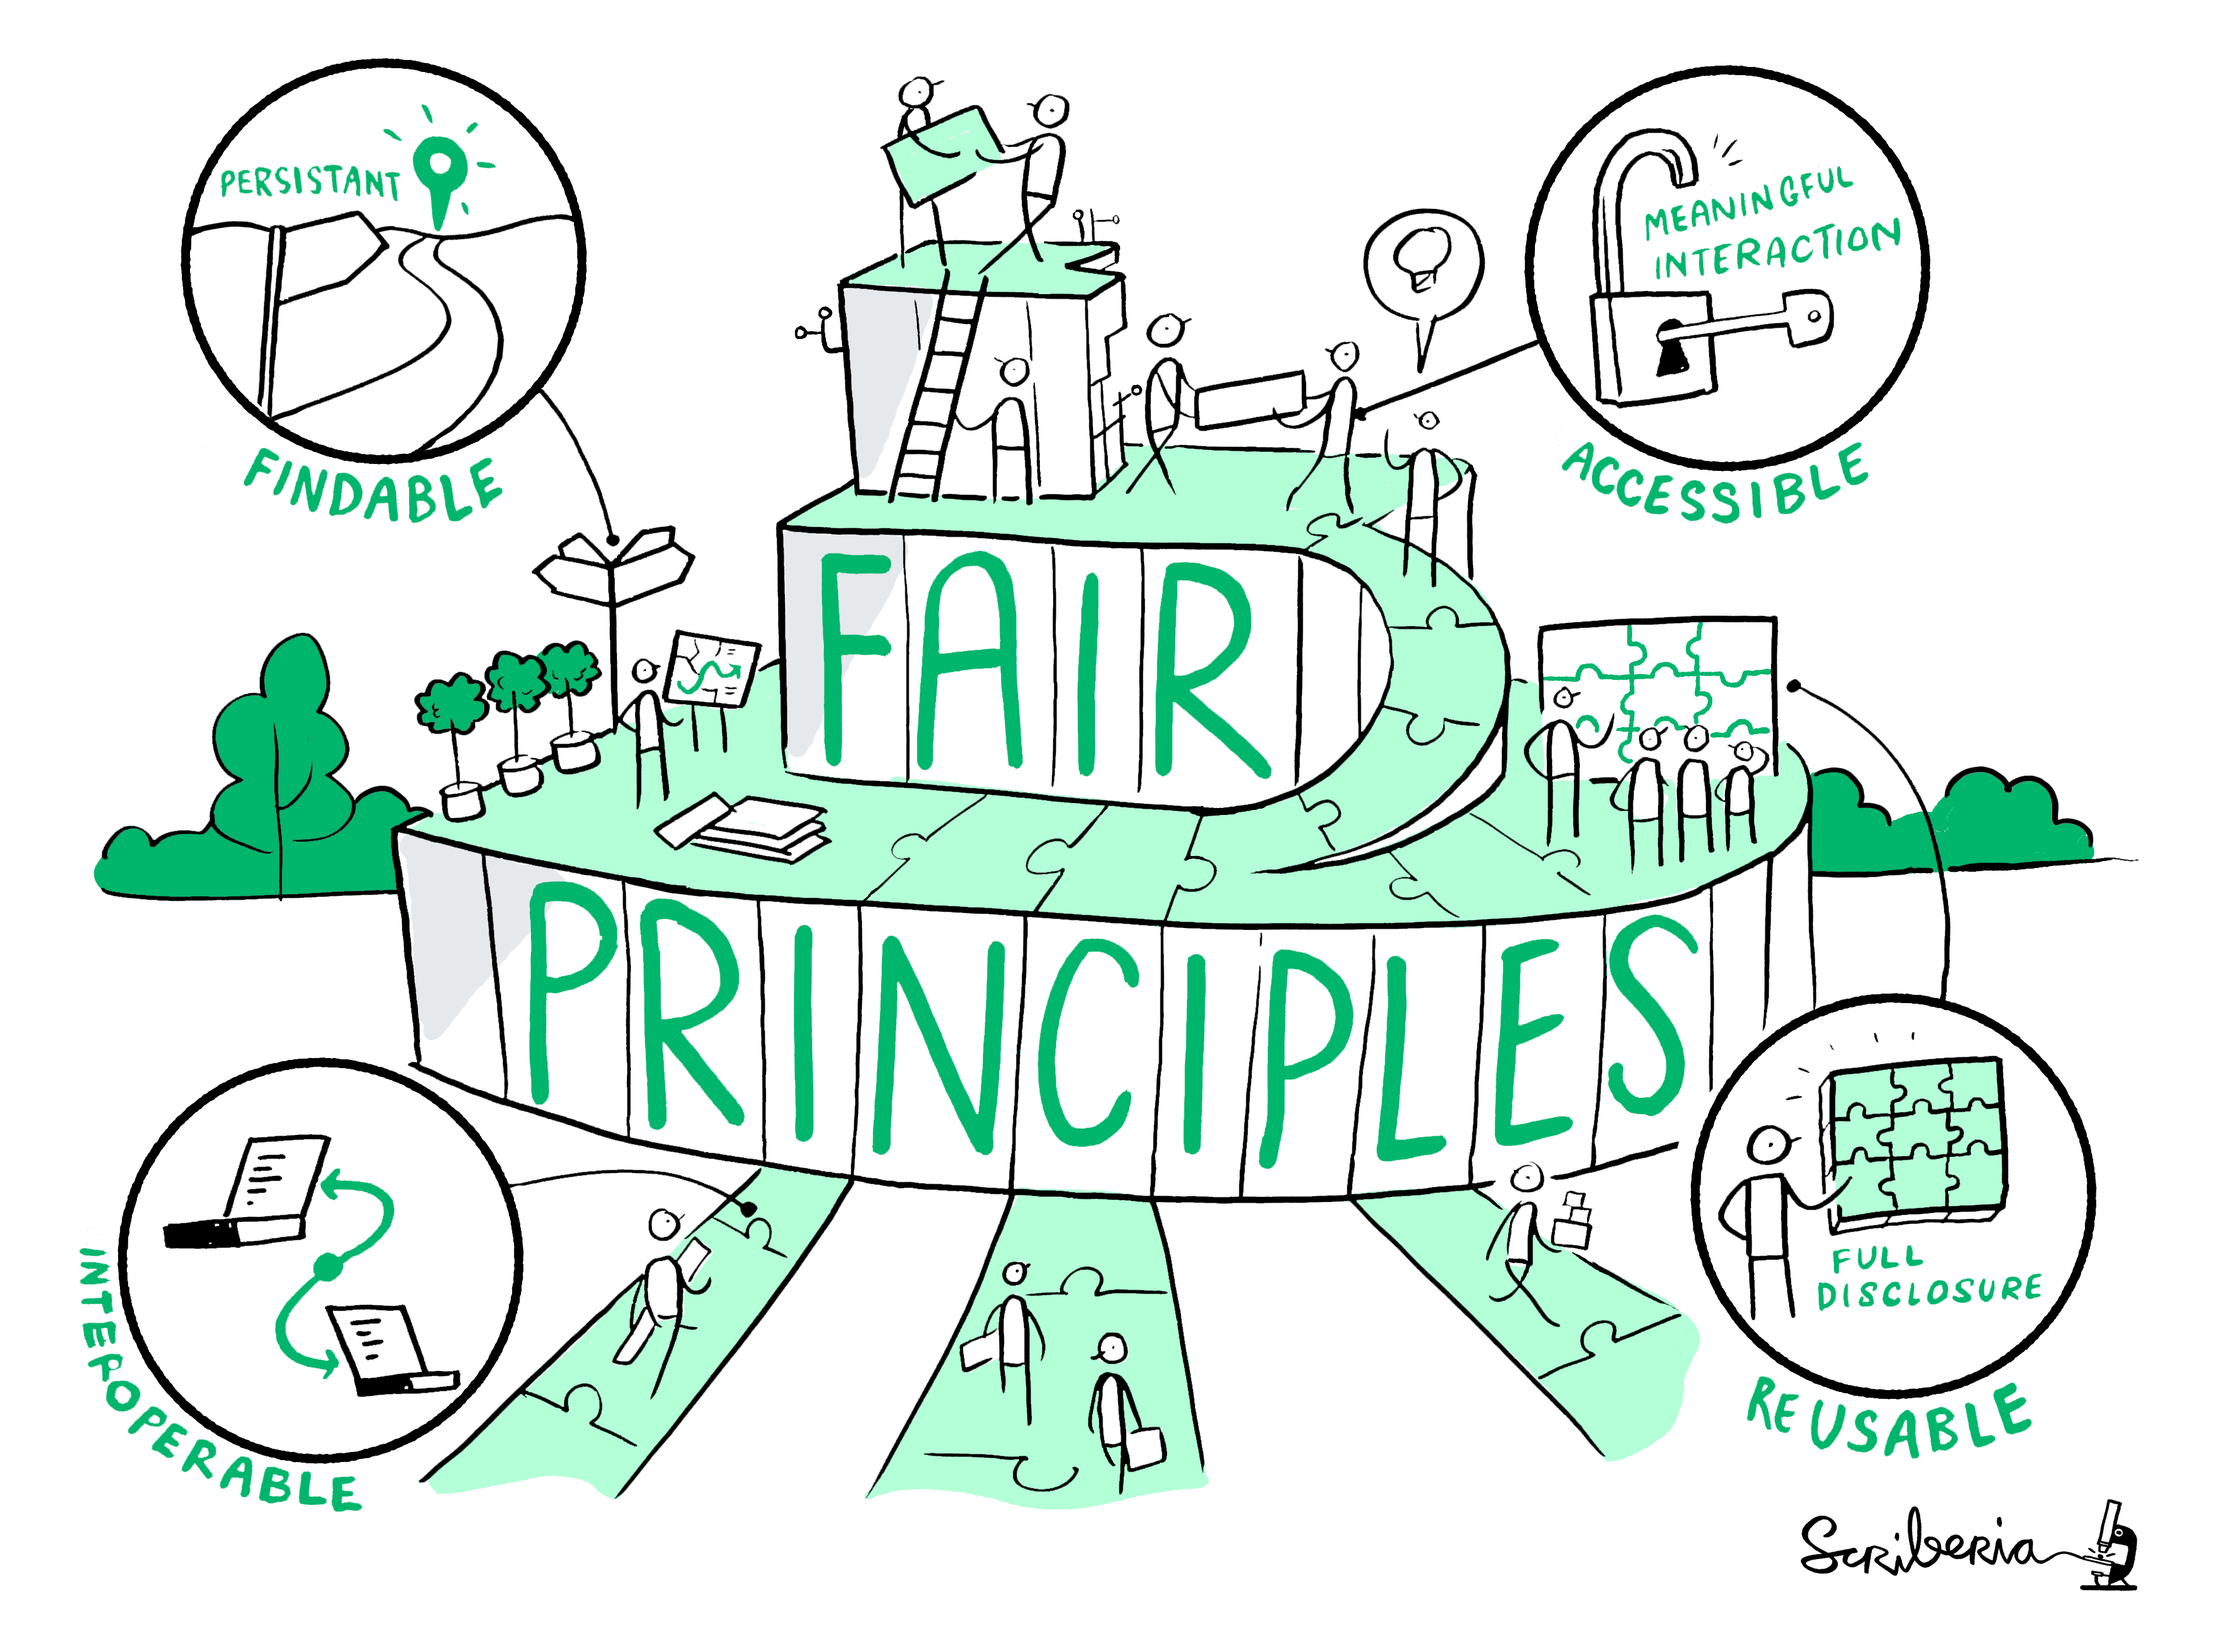
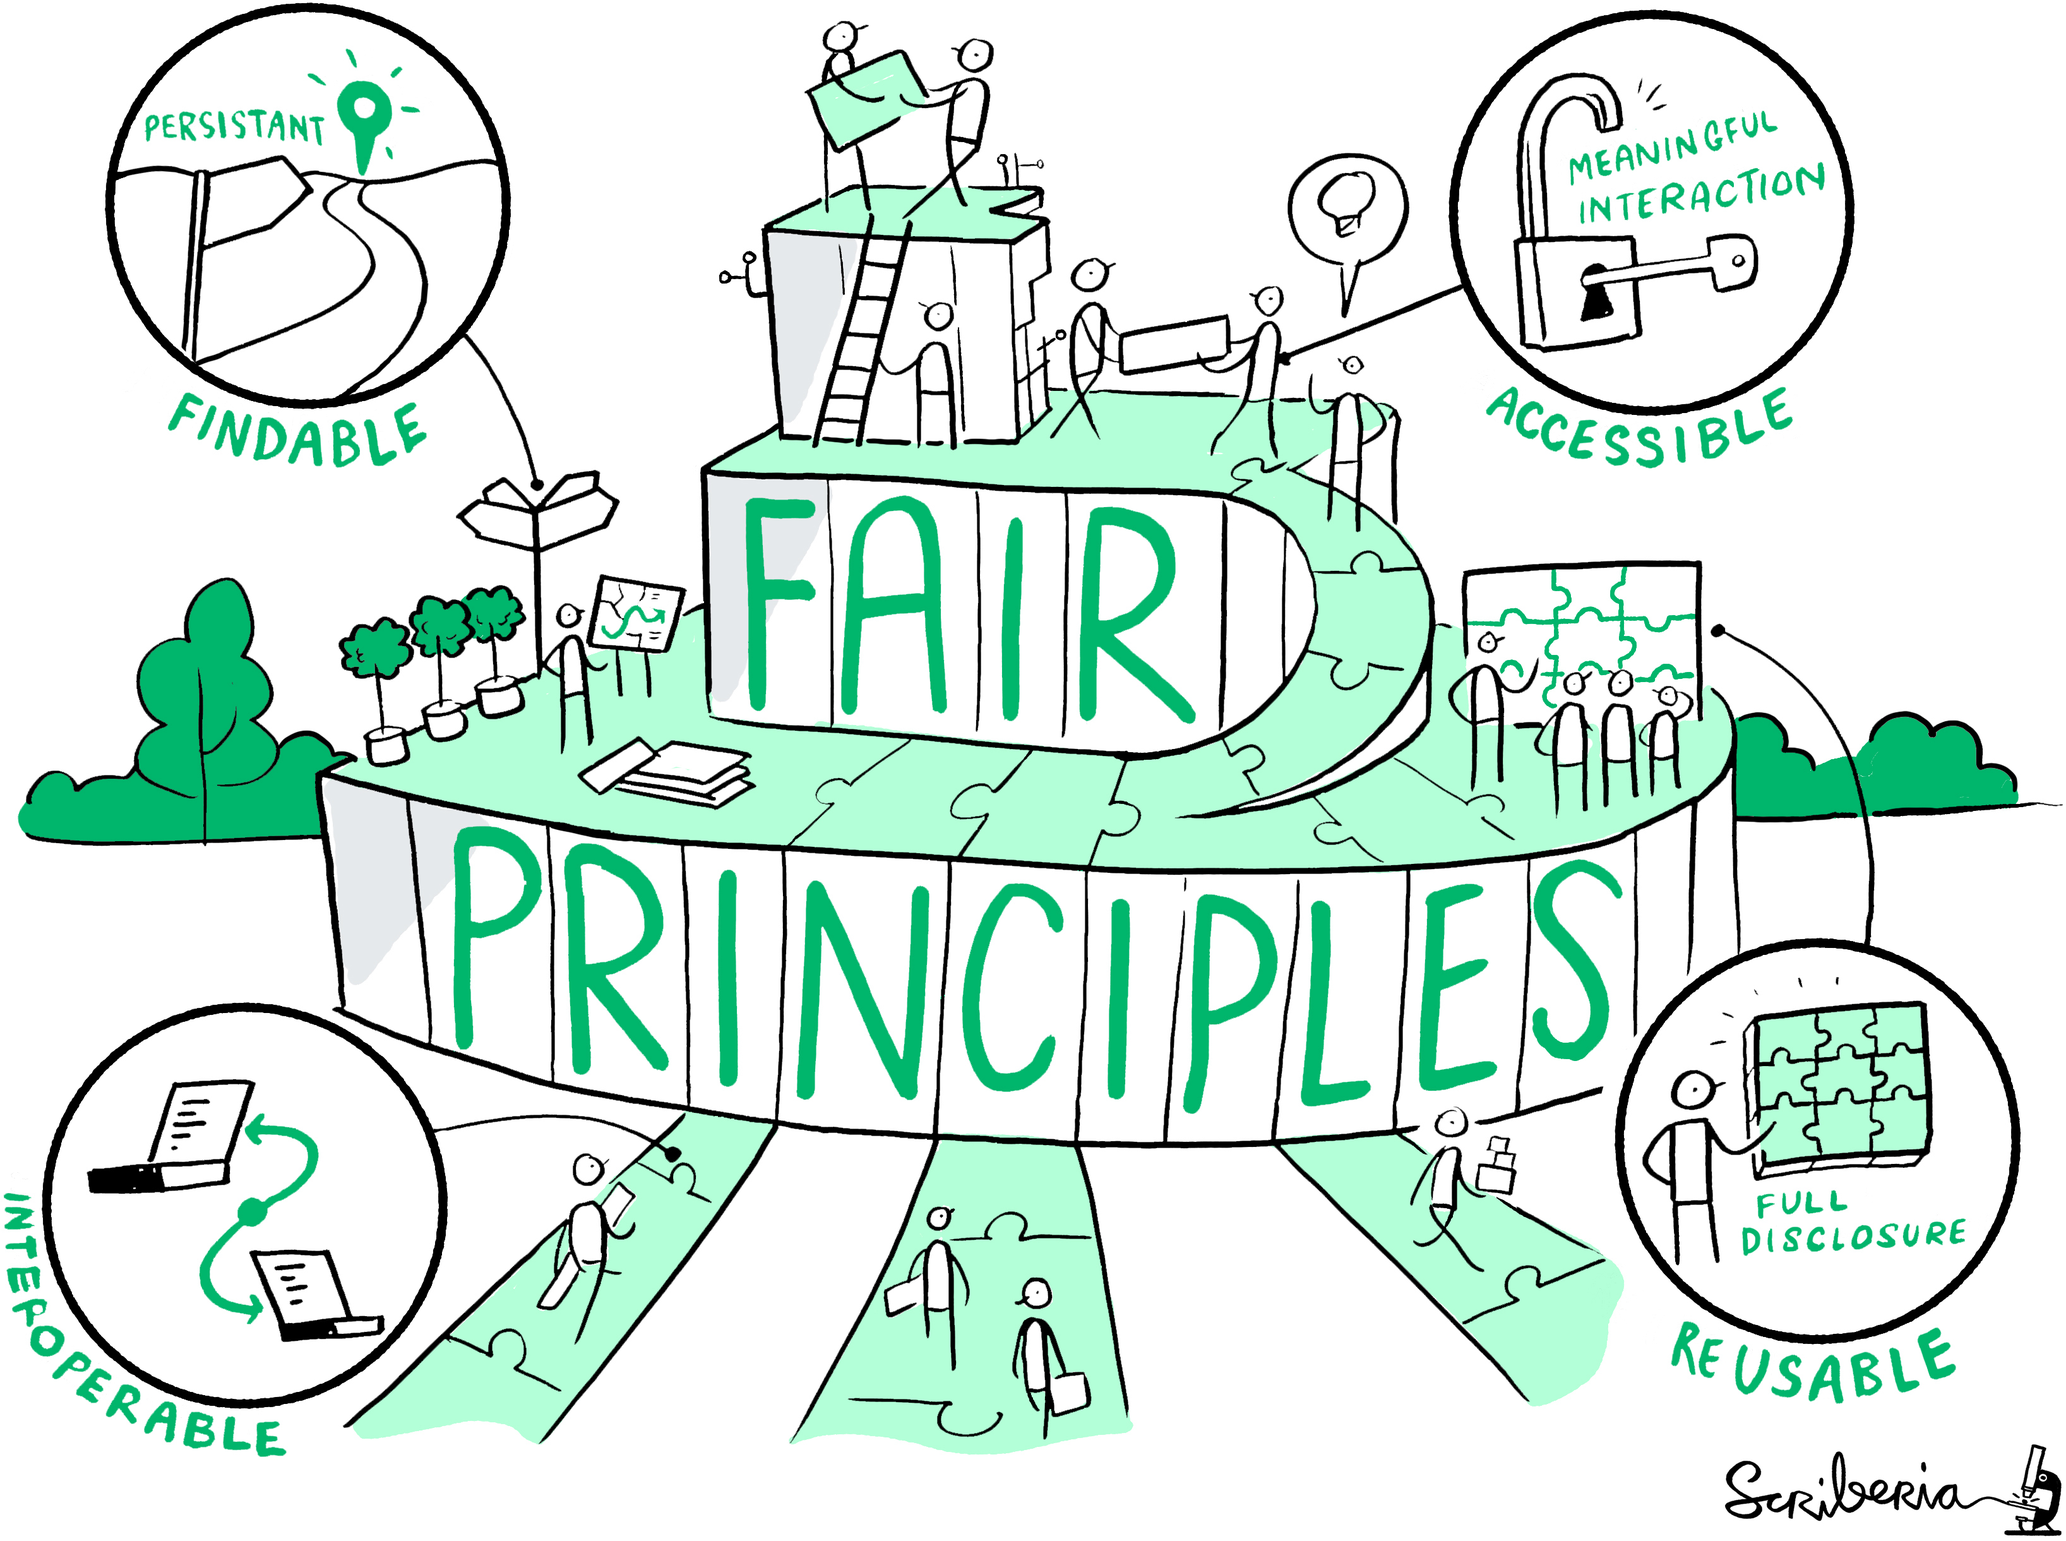
update slides about FAIR

Changed region(s): [[0.0, 0.0, 0.9976, 0.9967]]

diff --git a/slides.md b/slides.md
@@ -962,11 +962,15 @@ class: center, middle, inverse
 
 ## Reproducibility and FAIR principles
 
-<img src="img/turing-way/8-fair-principles.jpg" style="width: 50%;"/>
+<img src="img/turing-way/8-fair-principles.jpg" style="height: 450px;"/>
 
-.cite[(c) [Scriberia](http://www.scriberia.co.uk) for [The Turing Way](https://the-turing-way.netlify.com), CC-BY.]
+.cite[(c) [Scriberia](http://www.scriberia.co.uk) for [The Turing Way](https://the-turing-way.netlify.com), CC-BY]
 
-For a discussion of FAIR in the context of software, see https://softdev4research.github.io/4OSS-lesson/.
+---
+
+<img src="img/reproducible-research.jpg" style="height: 560px;"/>
+
+.cite[Heidi Seibold, CC-BY 4.0, https://twitter.com/HeidiBaya/status/1579385587865649153]
 
 ---
 
@@ -991,13 +995,6 @@ For a discussion of FAIR in the context of software, see https://softdev4researc
 ### Reusable
 
 .quote["I wish I could reuse this visualization pipeline for my new data!"]
-
----
-
-## Reproducible and reusable plots
-
-- Ask yourself: what problems do I anticipate when rerunning this in 12 months?
-- Document all tools and dependencies used .emph[with versions]
 
 ---
 
